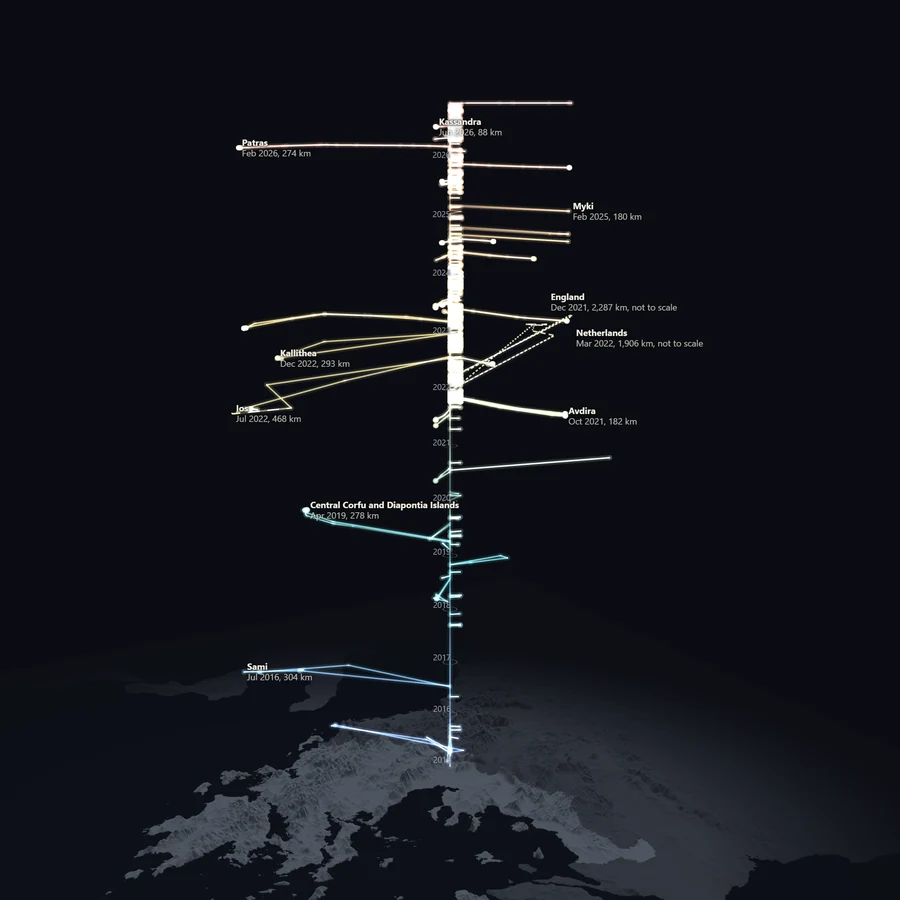
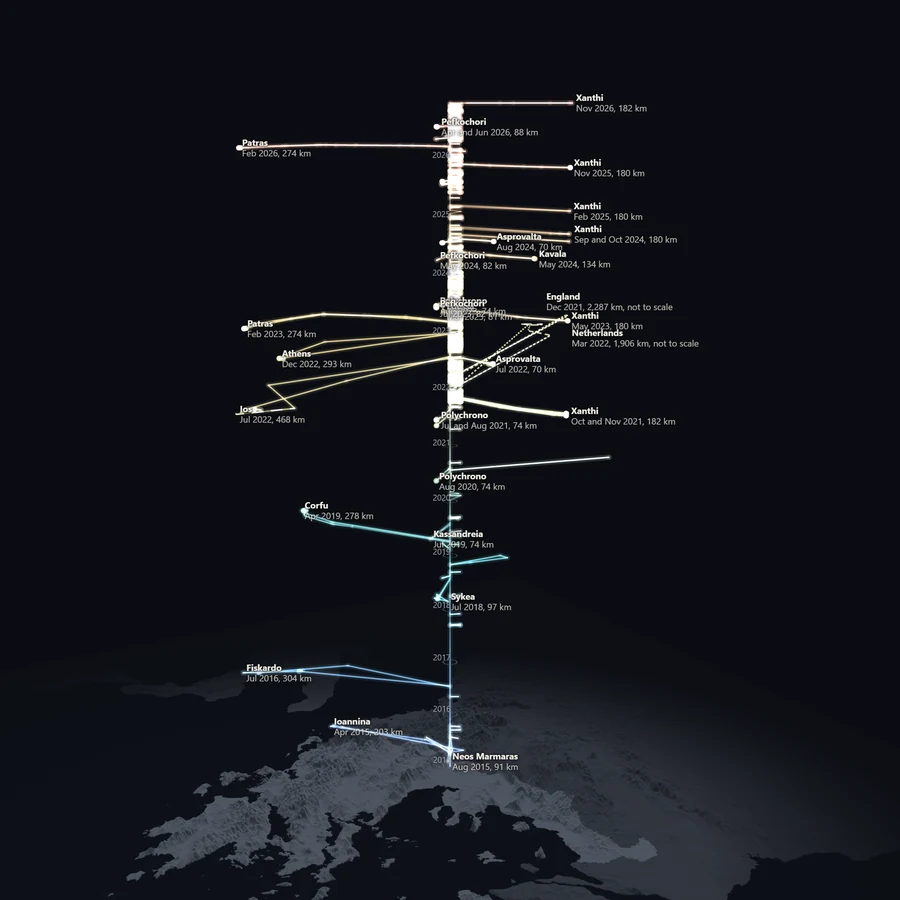
Day 16: credit the friend who shared the data, and name trips by town

diff --git a/src/content/projects/30dmc-2026-day-16-collaborative.md b/src/content/projects/30dmc-2026-day-16-collaborative.md
@@ -1,6 +1,6 @@
 ---
 title: 'Day 16 - Collaborative map: Twelve Years in One Tower'
-summary: 'Twelve years of one person''s location history as a tower over Greece. Time rises upward, so staying home draws a trunk and every trip a branch: 55,011 hours, 28 trips, two of them abroad.'
+summary: 'Twelve years of a friend''s location history, shared for this map, as a tower over Greece. Time rises upward, so staying home draws a trunk and every trip a branch: 55,011 hours, 28 trips, two of them abroad.'
 date: 2026-11-16
 created: 2026-11-11
 category: '30-day-map-challenge'
@@ -8,11 +8,11 @@ context: '#30DayMapChallenge 2026 · Day 16'
 tags: ['Python', 'three.js', 'Time geography', 'GNSS']
 image: '/images/30dmc-2026-day-16-wide.webp'
 imageFull: '/images/30dmc-2026-day-16-full.webp'
-imageAlt: 'Printed A4 sheet titled Twelve Years in One Tower: a glowing vertical trunk rising from a dark relief map of Greece, with coloured branches reaching out to trips such as Ios, Sami, Corfu and Patras, and dashed branches to England and the Netherlands; a legend of years, a small map of the trips from above, a table of the farthest trips and three figures fill the side panel'
+imageAlt: 'Printed A4 sheet titled Twelve Years in One Tower: a glowing vertical trunk rising from a dark relief map of Greece, with coloured branches reaching out to trips such as Ios, Fiskardo, Corfu, Patras and Xanthi, and dashed branches to England and the Netherlands; a legend of years, a small map of the trips from above, a table of the farthest trips and three figures fill the side panel'
 thumbnail: '/images/30dmc-2026-day-16-square.webp'
 thumbnailAlt: 'A glowing tower of twelve years of location history rising over a dark relief map of Greece'
 dataSource:
-  - label: 'Location history: Google Maps Timeline and a phone tracker, 2014-2026'
+  - label: 'Location history: a friend''s Google Maps Timeline and phone tracker, 2014-2026, shared with consent'
   - label: 'Copernicus DEM GLO-90 - relief of Greece'
     href: 'https://dataspace.copernicus.eu/explore-data/data-collections/copernicus-contributing-missions/collections-description/COP-DEM'
   - label: 'GEBCO 2026 - relief of the neighbouring countries'
@@ -34,9 +34,9 @@ draft: true
 
 **Prompt:** Collaborative map.
 
-This map is built from twelve years of one person's location history: Google Maps Timeline from 2014, and a phone tracker in recent years, close to a million positions in all.
+This map is a collaboration with a friend, who shared twelve years of their location history for it: Google Maps Timeline from 2014, and a phone tracker in recent years, close to a million positions in all. They supplied the data; I turned it into the map.
 
-It is drawn as a space-time cube, an idea from Torsten Hägerstrand's time geography. The map of Greece is the floor and time rises upward, a year to each ring. Days at home stack up into a single trunk. Every trip leaves the trunk as a branch, reaching out over the map to the place it went and coming back a few days higher. Ios in July 2022 is the longest branch in Greece, at 468 km; Corfu, Sami and Patras are the others that reach the far side of the country.
+It is drawn as a space-time cube, an idea from Torsten Hägerstrand's time geography. The map of Greece is the floor and time rises upward, a year to each ring. Days at home stack up into a single trunk. Every trip leaves the trunk as a branch, reaching out over the map to the place it went and coming back a few days higher. Ios in July 2022 is the longest branch in Greece, at 468 km; Fiskardo, Athens, Corfu and Patras are the others that reach the far side of the country, while Xanthi, Kavala, Asprovalta and the beaches of Chalkidiki come back year after year.
 
 Two trips left Greece, to England in December 2021 and the Netherlands in March 2022. At true scale they would be several times wider than the whole map, so beyond 450 km from home their distance is compressed, in the true direction. They are drawn dashed, with their real distances in the labels.
 
